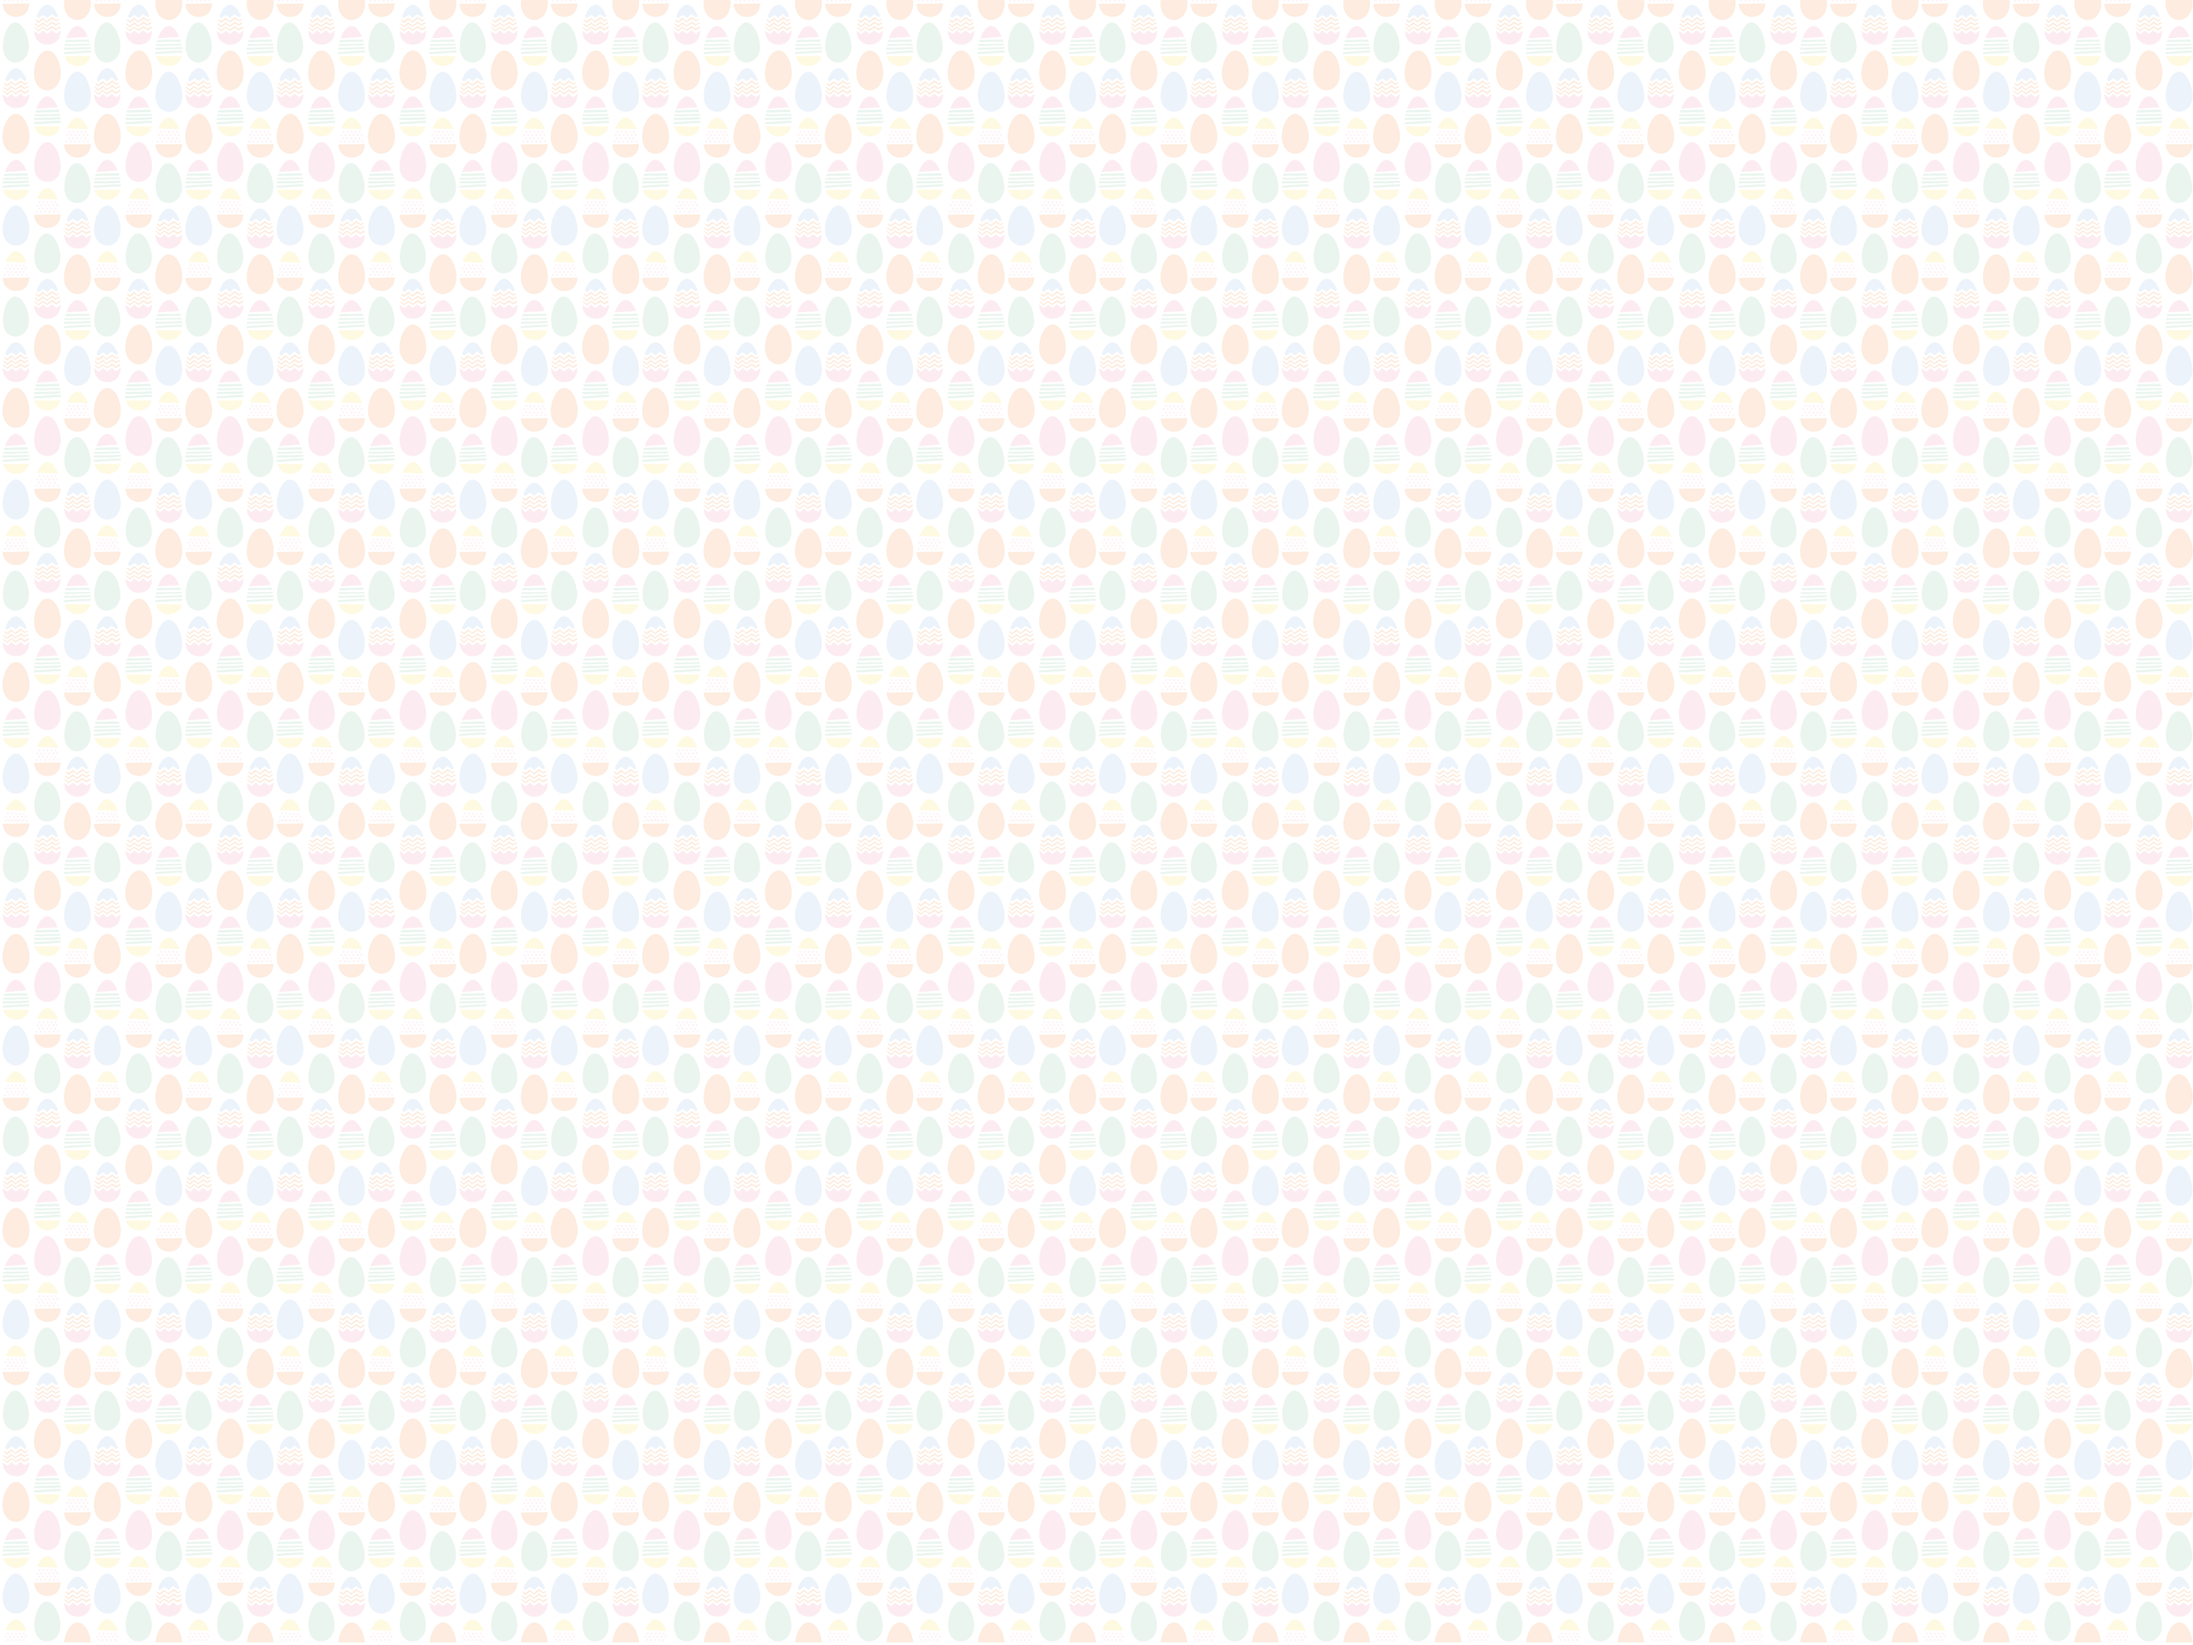
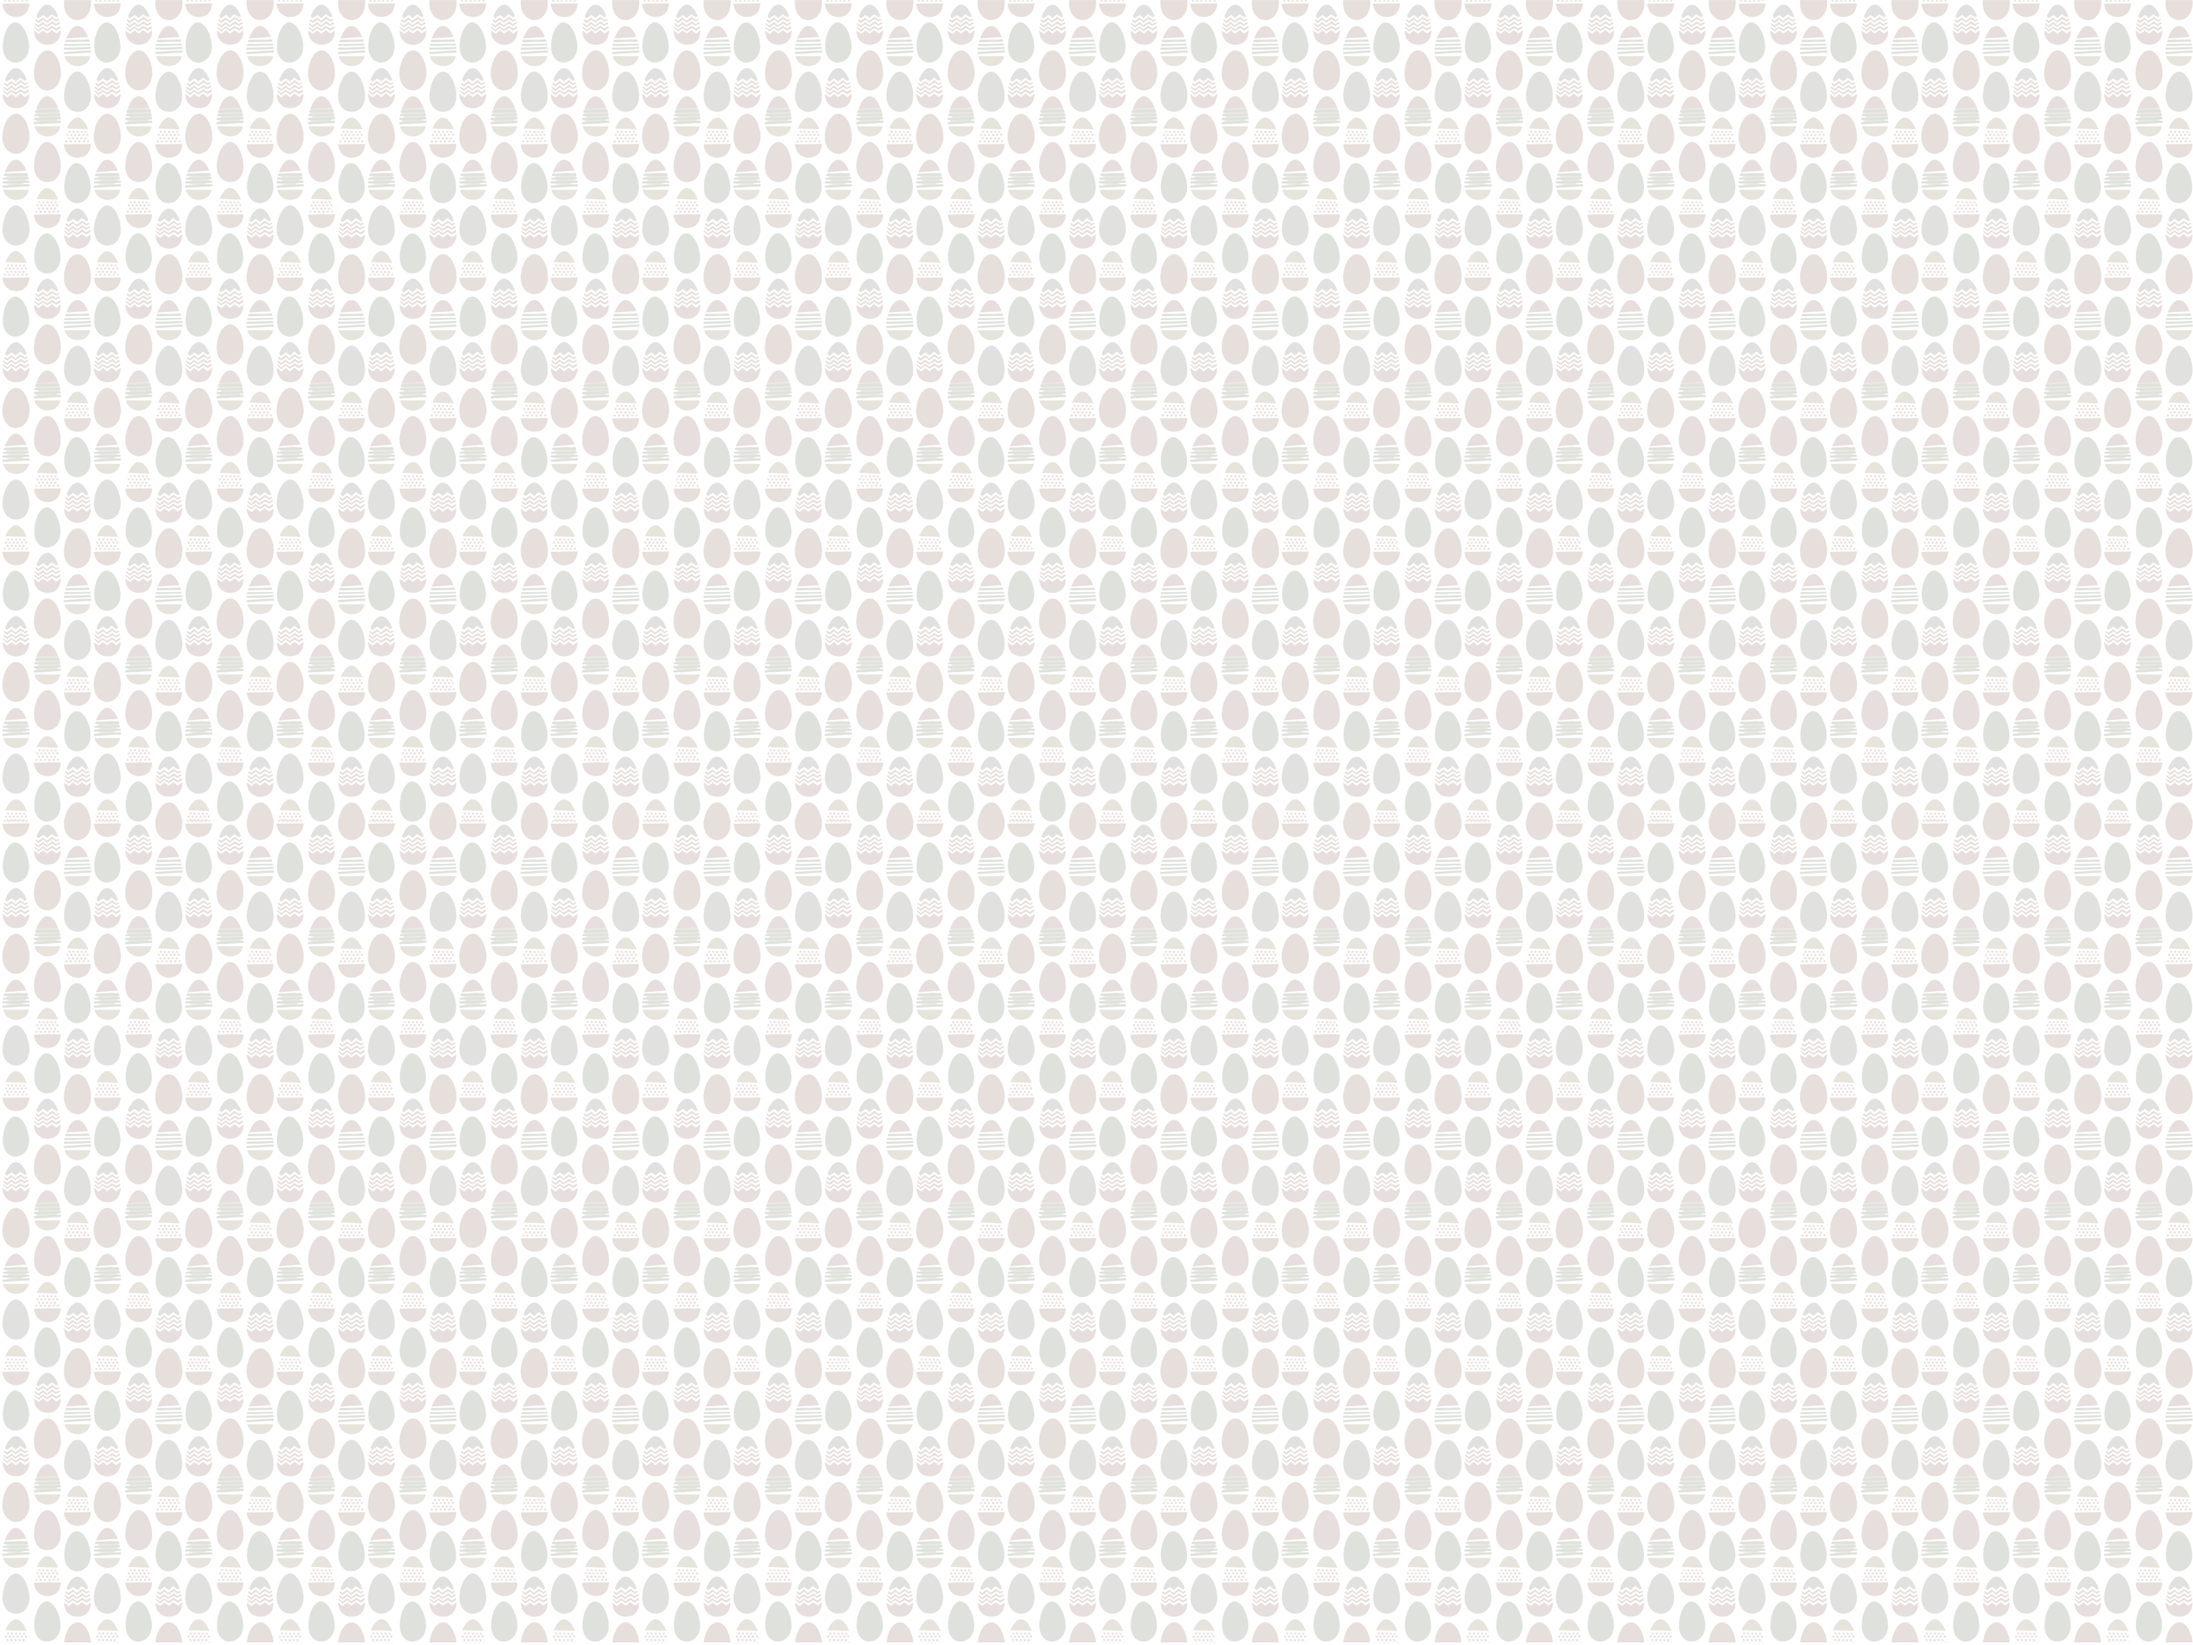
updated styling of tooltip, updated easter and christmas festive background

diff --git a/public/js/main.js b/public/js/main.js
@@ -2,7 +2,10 @@
 const url = "https://jeffreymaas.dev/";
 
 const backgrounds = ["goat", "zebra", "eiffel", "harry", "animal"];
-const festiveBackgrounds = [{month: 04, day:17, type: "easter"}, {month: 12, day:25, type: "christmas"}];
+const festiveBackgrounds = [
+    {month: 04, day:17, type: "easter", logo: "bunny"}, 
+    {month: 12, day:25, type: "christmas", logo: "mistletoe"}
+];
 
 const completeUrl = new URL(window.location.href);
 let overrideBg = undefined;
@@ -73,9 +76,9 @@ function getBackground(theme) {
     const selected = (filteredBackground != undefined) ? filteredBackground.type : backgrounds[Math.floor(Math.random() * backgrounds.length)];
     const suffix = (theme == "dark") ? "b" : "w";
 
-    if(filteredBackground != undefined && filteredBackground.type == "easter" && !festiveAdded) {
+    if(filteredBackground != undefined && filteredBackground.logo != undefined && !festiveAdded) {
         festiveAdded = !festiveAdded;
-        document.querySelector(".top-header").innerHTML += "<img src='images/easter_bunny.png' class='bunny-logo'>";
+        document.querySelector(".top-header").innerHTML += `<img src='images/${filteredBackground.logo}.png' class='${filteredBackground.logo}-logo'>`;
     }
 
     return `../images/${selected}_${suffix}.png`;

diff --git a/public/js/socket.js b/public/js/socket.js
@@ -2,22 +2,11 @@ function connect(queryName = undefined) {
     const name = (queryName == undefined) ? document.querySelector("#user-name-input").value : queryName;
 
     if(name == '') {
-      const spectator = document.querySelector(".checkcontainer input").checked;
-      const positioning = document.querySelector("#user-name-input").getBoundingClientRect();
-      document.querySelector("body").innerHTML += `
-          <div class="tooltip" style='top: calc(${positioning.top}px + 40px); left: calc(${positioning.left}px); opacity: 1;'>
+      document.querySelector("#user-name-input").outerHTML += `
+          <div class="input-tooltip">
               Please fill in a username!
           </div>
       `;
-
-      setTimeout(_ => {
-        if(spectator) document.querySelector(".checkcontainer input").setAttribute("checked", "");
-        document.querySelector(".tooltip").classList += " fadeout";
-
-        setTimeout(_ => {
-            document.querySelector(".tooltip").remove();
-        }, 2000);
-      }, 1000);
     } else {
       const spectator = document.querySelector(".checkcontainer input").checked;
 

diff --git a/public/style/main.css b/public/style/main.css
@@ -666,3 +666,20 @@ canvas {
   height: 39px;
   top: -22px;
 }
+
+.mistletoe-logo {
+  position: absolute;
+  height: 60px;
+  left: -20px;
+  bottom: -39px;
+}
+
+.input-tooltip {
+  background: var(--primary);
+  padding: 10px;
+  text-align: center;
+  opacity: 1;
+  width: calc(100% - 20px);
+  margin-top: 10px;
+  font-size: 14px;
+}
